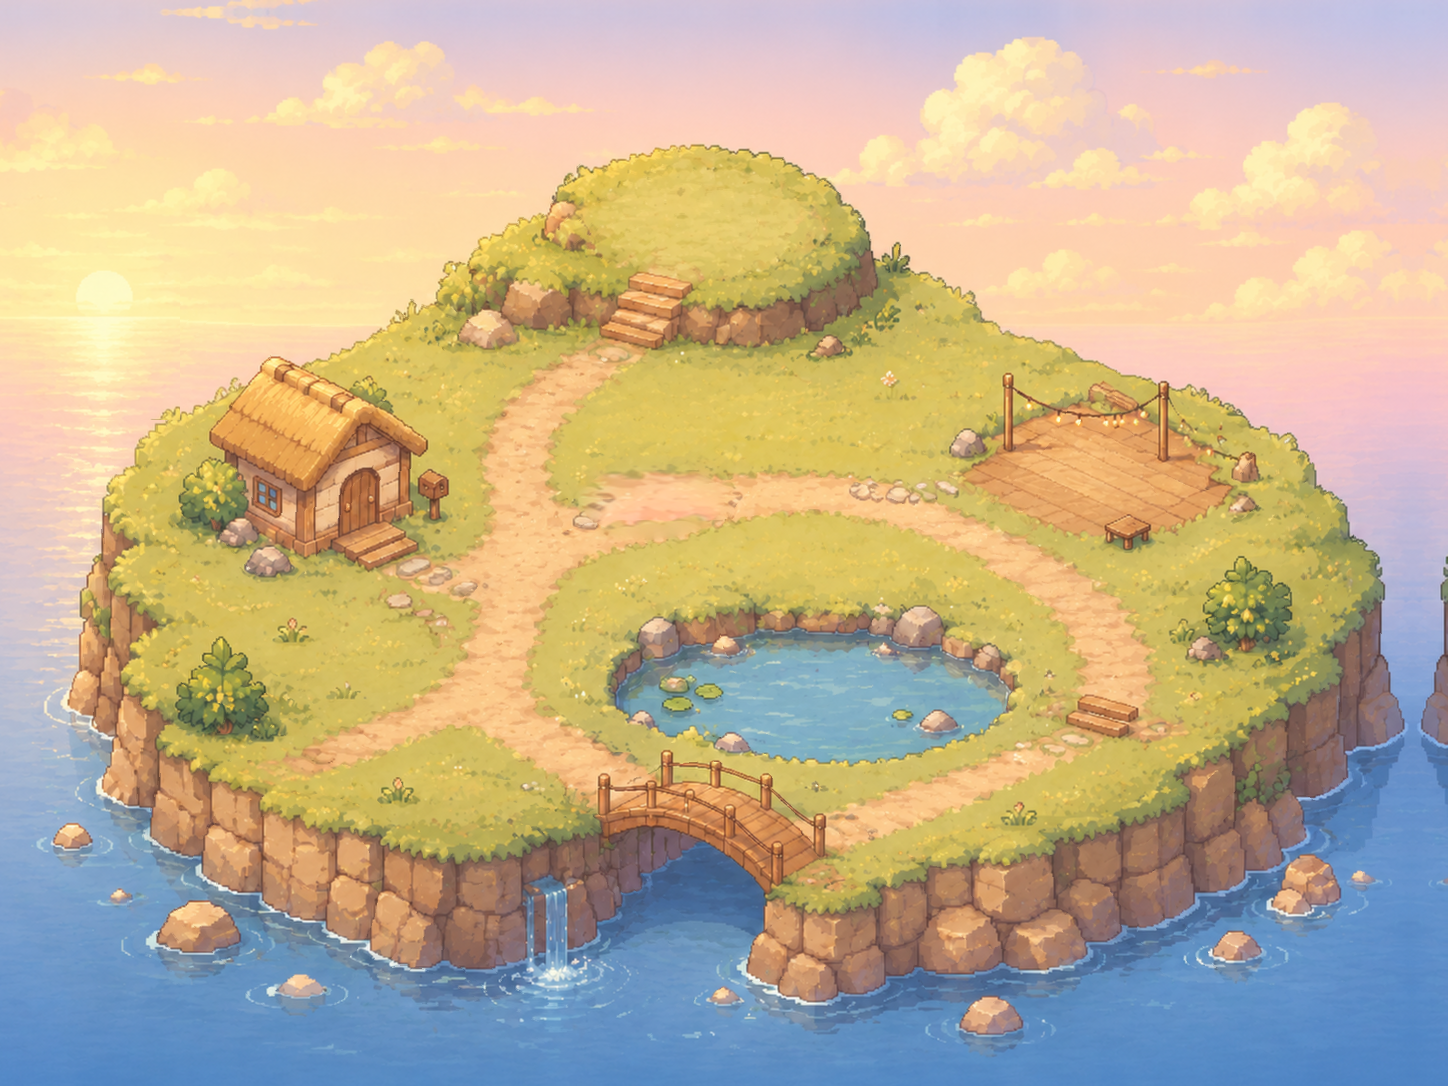
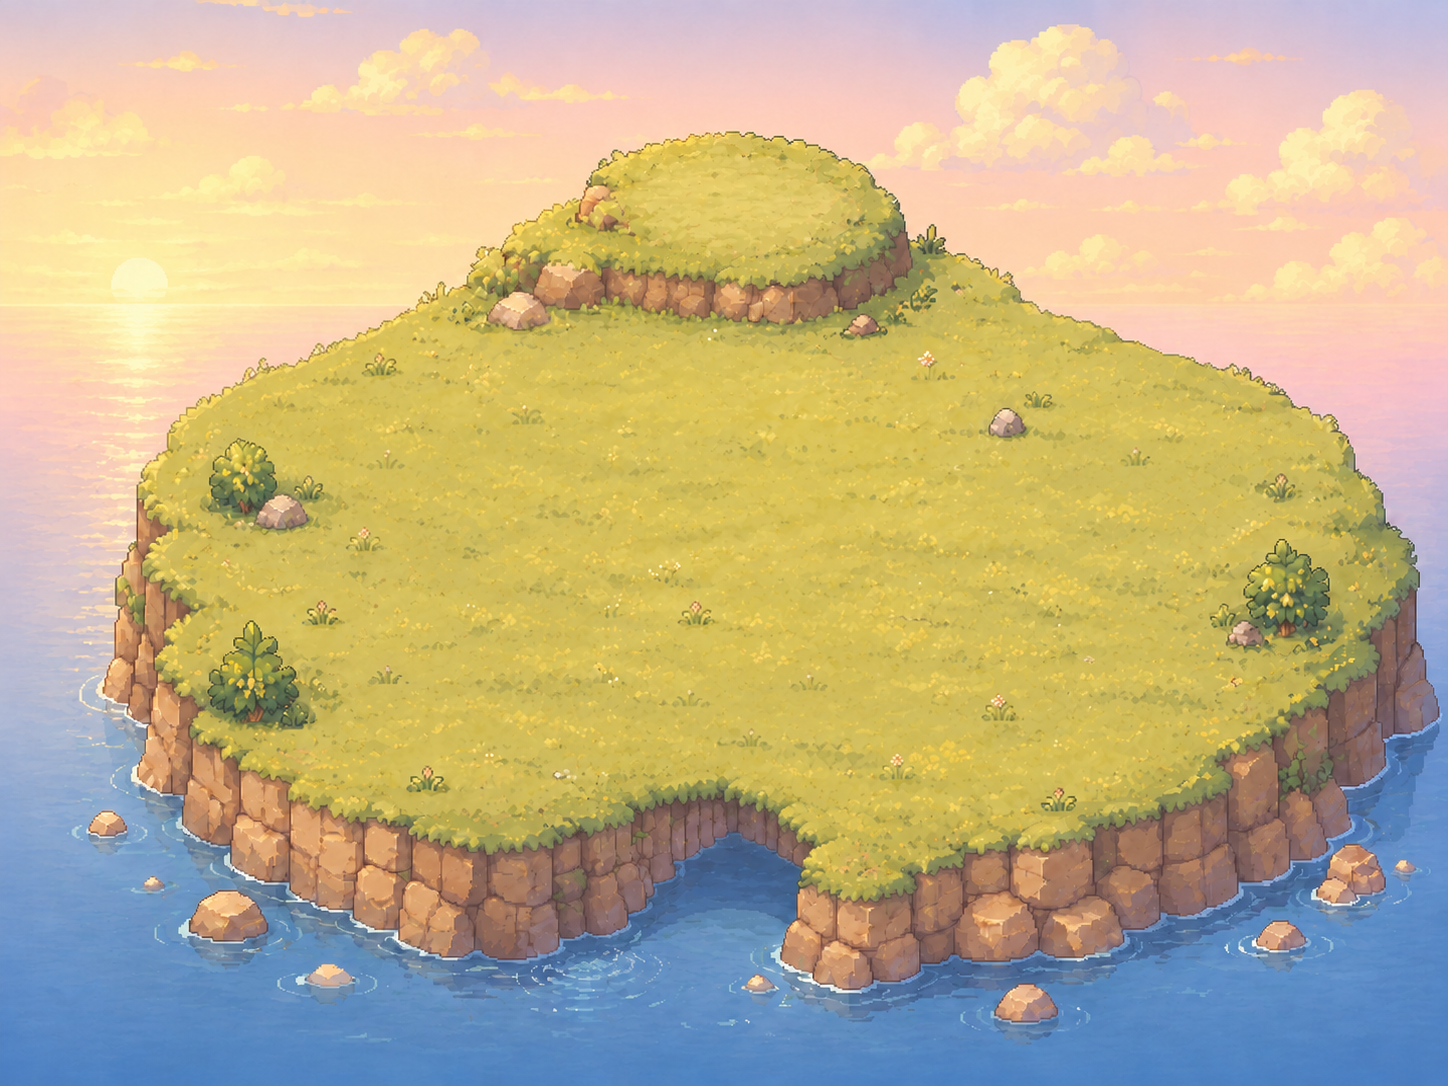
Make Stage 0 sanctuary maps blank

diff --git a/src/version.ts b/src/version.ts
@@ -1,1 +1,1 @@
-export const APP_VERSION = '0.99.99-production-22.8.21'
+export const APP_VERSION = '1.00.00-production-22.8.22'
